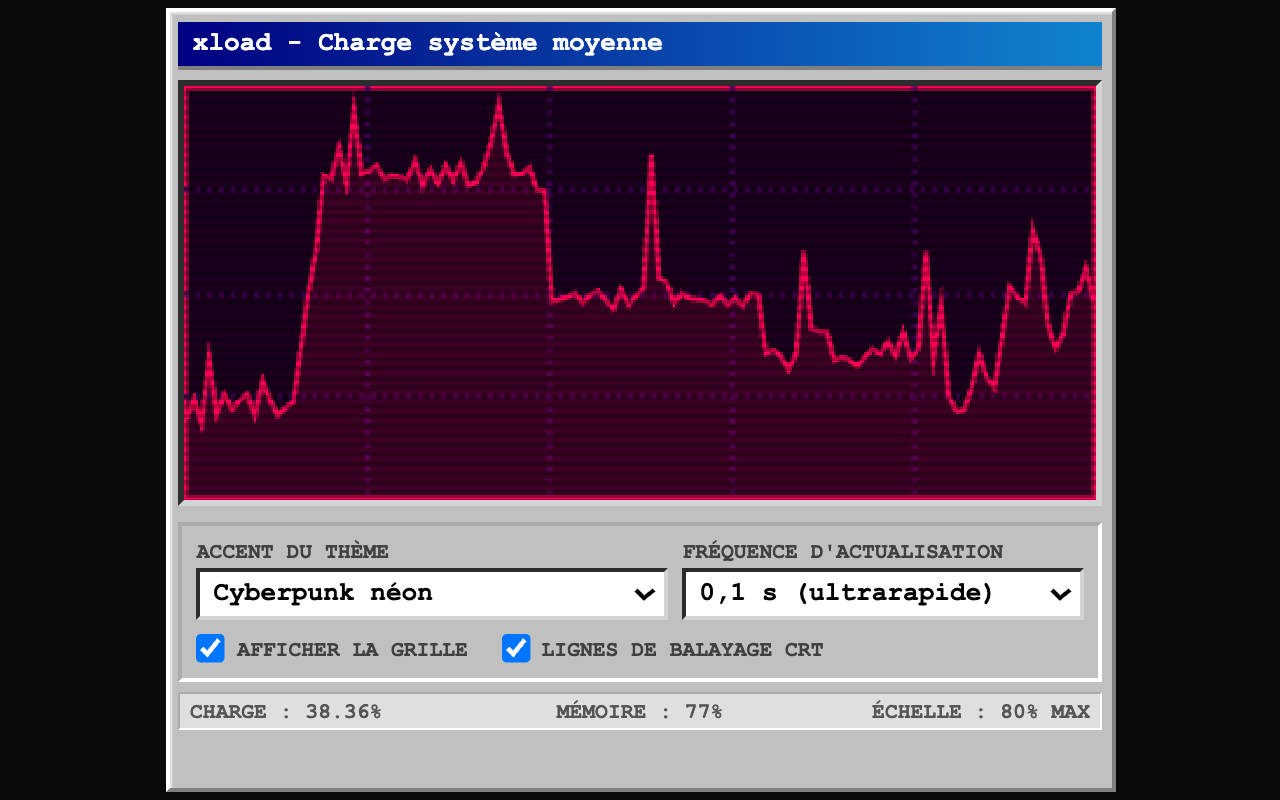
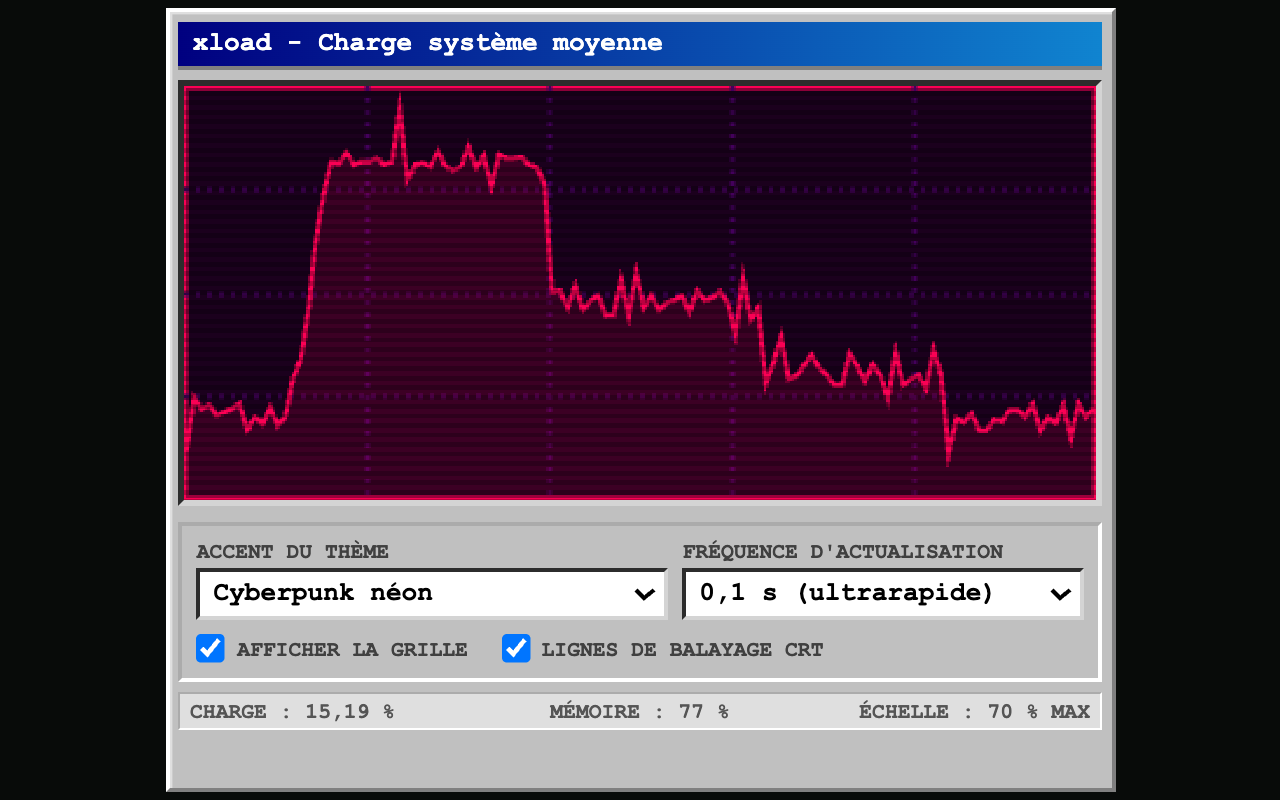
Format the status readouts for the catalog and show both screenshot sets.

diff --git a/store/gallery.html b/store/gallery.html
@@ -13,17 +13,21 @@
   figure { margin: 0; }
   figcaption { margin-bottom: 8px; color: #b9bcc4; }
   figcaption b { color: #ff4d4d; font-weight: bold; }
+  h2 { margin: 6px 0 0; padding-top: 16px; border-top: 1px solid #2c2e35; font-size: 12px;
+       letter-spacing: .14em; text-transform: uppercase; color: #ff4d4d; }
   img { display: block; width: 100%; max-width: 1280px; height: auto; border: 0; }
 </style>
 </head>
 <body>
 <header>
   <h1>xload — store screenshots</h1>
-  <p>1280×800, captured from the unpacked extension with real CPU samples. The popup is height-filled
-     (74% × 98% of the frame) so <code>LOAD</code> and <code>SCALE</code> survive thumbnail downscaling.
-     Click a caption to open full size.</p>
+  <p>1280×800, captured from the unpacked extension with real CPU samples. Both language sets on one
+     page: English uploaded as the base language, French under <strong>Français</strong>. The popup is
+     height-filled (74% × 98% of the frame) so <code>LOAD</code> and <code>SCALE</code> survive
+     thumbnail downscaling. Click a caption to open full size.</p>
 </header>
 <main>
+  <h2>English (United States) — the base language</h2>
   <figure>
     <figcaption><b>01</b> hero — Classic X11 at 1.0s, full 120-point history</figcaption>
     <a href="01-hero-classic-x11.png"><img src="01-hero-classic-x11.png" alt="Classic X11 theme, 1.0s refresh"></a>
@@ -52,6 +56,30 @@
     <figcaption><b>marquee</b> 1400×560 featured banner — six themes as full-width graph tiles</figcaption>
     <a href="07-marquee-1400x560.png"><img src="07-marquee-1400x560.png" alt="Six themes in a 3x2 grid"></a>
   </figure>
+
+  <h2>Français — the same five frames, French catalog</h2>
+  <figure>
+    <figcaption><b>01</b> accueil — Classique X11 à 1,0 s, historique complet de 120 points</figcaption>
+    <a href="fr/01-hero-classic-x11.png"><img src="fr/01-hero-classic-x11.png" alt="Thème Classique X11, actualisation 1,0 s"></a>
+  </figure>
+  <figure>
+    <figcaption><b>02</b> Vert hacker à 0,1 s sous charge réelle</figcaption>
+    <a href="fr/02-hacker-green-load.png"><img src="fr/02-hacker-green-load.png" alt="Thème Vert hacker sous charge"></a>
+  </figure>
+  <figure>
+    <figcaption><b>03</b> Moniteur ambre à 0,5 s</figcaption>
+    <a href="fr/03-amber-monitor.png"><img src="fr/03-amber-monitor.png" alt="Thème Moniteur ambre, actualisation 0,5 s"></a>
+  </figure>
+  <figure>
+    <figcaption><b>04</b> Cyberpunk néon à 0,1 s, tracé dense</figcaption>
+    <a href="fr/04-dense-0.1s.png"><img src="fr/04-dense-0.1s.png" alt="Thème Cyberpunk néon, actualisation 0,1 s"></a>
+  </figure>
+  <figure>
+    <figcaption><b>05</b> lignes de balayage désactivées, grille conservée</figcaption>
+    <a href="fr/05-scanlines-off.png"><img src="fr/05-scanlines-off.png" alt="Classique X11 sans lignes de balayage"></a>
+  </figure>
+  <p>The promo tile and the marquee carry graph crops and fixed labels rather than popup text, so
+     they have no French version and are shared by both languages.</p>
 </main>
 </body>
 </html>

diff --git a/popup.js b/popup.js
@@ -38,6 +38,17 @@ const scanlineOverlayEl = document.querySelector('.scanlines');
  */
 const t = (key, substitutions) => chrome.i18n.getMessage(key, substitutions) || key;
 
+/**
+ * Numbers follow the catalog, not JavaScript: a French readout is written 21,46 % where the
+ * English one is 21.46%. The separator is itself a message, so a --catalog capture and a real
+ * French Chrome format a value the same way instead of trusting the page's language.
+ */
+const decimalSeparator = t('decimalSeparator');
+const formatNumber = (value, decimals) => {
+  const [whole, fraction] = Number(value).toFixed(decimals).split('.');
+  return fraction ? `${whole}${decimalSeparator}${fraction}` : whole;
+};
+
 function localizeUi() {
   document.documentElement.lang = chrome.i18n.getUILanguage();
 
@@ -76,7 +87,7 @@ document.addEventListener('DOMContentLoaded', () => {
     scanlinesToggle.checked = config.scanlines;
 
     if (history.length > 0) {
-      loadValueEl.textContent = t('loadPercent', [history[history.length - 1].toFixed(2)]);
+      loadValueEl.textContent = t('loadPercent', [formatNumber(history[history.length - 1], 2)]);
     }
 
     updateScanlineOverlay();
@@ -194,7 +205,7 @@ function queryCpuInfo() {
       if (history.length > maxDataPoints) history.shift();
       historyDirty = true;
 
-      loadValueEl.textContent = t('loadPercent', [loadPercent.toFixed(2)]);
+      loadValueEl.textContent = t('loadPercent', [formatNumber(loadPercent, 2)]);
       persistHistory();
       drawGraph();
     }
@@ -219,7 +230,7 @@ function queryMemoryInfo() {
     if (!memoryInfo || !memoryInfo.capacity) return;
     const usedPercent = ((memoryInfo.capacity - memoryInfo.availableCapacity) / memoryInfo.capacity) * 100;
     const clamped = Math.max(0, Math.min(100, usedPercent));
-    memoryValueEl.textContent = t('memoryPercent', [String(Math.round(clamped))]);
+    memoryValueEl.textContent = t('memoryPercent', [formatNumber(Math.round(clamped), 0)]);
   });
 }
 

diff --git a/CHANGELOG.md b/CHANGELOG.md
@@ -9,6 +9,7 @@ The popup now speaks English or French, following Chrome's own language setting.
 - New `_locales/en/messages.json` and `_locales/fr/messages.json`: every label, theme name, refresh-rate option and status-bar readout is a message, each with the description a translator works from.
 - `manifest.json` declares `default_locale: "en"` and carries `__MSG_extName__` and `__MSG_extDescription__` instead of text, so the extension name and the store summary localize with the rest of the UI.
 - `popup.js` resolves every string through `chrome.i18n.getMessage()`, sets `<html lang>` from `chrome.i18n.getUILanguage()`, and fills each `data-i18n` element from the catalog. English stays the fallback for any browser language that is neither English nor French.
+- The status readouts format their numbers with the catalog's own decimal separator, so French reads `CHARGE : 21,46 %` with a comma and a space before the percent sign while English keeps `LOAD: 21.46%`.
 - No new permissions and no network code: the catalogs ship with the extension and are read from disk by Chrome.
 
 ### Packaging and checks
@@ -16,7 +17,7 @@ The popup now speaks English or French, following Chrome's own language setting.
 - Upload package is now `xload-retro-system-monitor-1.3.0.zip`: nine entries, the two catalogs included.
 - `README.md`, `STORE-LISTING.md`, `RELEASING.md` and `AGENTS.md` describe the bilingual popup and count nine entries; the store-listing regions note no longer calls the UI English-only.
 - `scripts/smoke.mjs` derives its expected readouts from the same messages, and `--catalog=fr` renders the French catalog on any platform (`--lang=fr` covers Linux and Windows), so a run exercises the translation instead of assuming English.
-- `scripts/capture-screenshots.mjs` unpacks the package with its `_locales/` subdirectories, which the flat copy could not do, and takes `--catalog=fr` to capture the French screenshot set without changing the browser's language.
+- `scripts/capture-screenshots.mjs` unpacks the package with its `_locales/` subdirectories, which the flat copy could not do, and takes `--catalog=fr` to capture the French screenshot set without changing the browser's language; `store/fr/` holds that set and `store/gallery.html` shows both.
 - `scripts/check-listing.mjs` resolves the manifest's message references and checks that both catalogs define the same keys, that every placeholder is declared, and that no label or option text is still hardcoded in `popup.html`.
 
 ## [1.2.0](https://github.com/jbodkin1/xload_chrome_ext/releases/tag/v1.2.0) — 24 November 2026

diff --git a/STORE-LISTING.md b/STORE-LISTING.md
@@ -65,13 +65,13 @@ validated and the package is installed in a clean profile first, so a broken zip
 manifest typo fails at this point rather than during review.
 
 Upload the zip attached to the [v1.3.0 release](https://github.com/jbodkin1/xload_chrome_ext/releases/tag/v1.3.0)
-or the copy committed at the repository root; they are the same bytes. It is 12,233 bytes with
+or the copy committed at the repository root; they are the same bytes. It is 12,713 bytes with
 this SHA-256: check it before uploading, because an asset built before a manifest change is
 indistinguishable from the right one by name and would submit the older package.
 
 ```bash
 shasum -a 256 xload-retro-system-monitor-1.3.0.zip
-# 9c712914e93fc5174d4ea6e6ef8c13c7692c9bb493e7c965e601afc04fc734b6
+# 167afd3bfde2b160a055bb884a897bc835f88a23ec5f271f6747d5ee4c96ab55
 ```
 
 Upload limit is 2 GB — this package is 12 KB.
@@ -290,7 +290,8 @@ Upload in this order — the first shot is the one the store shows largest. All 
 | 4 | `04-dense-0.1s.png` | Neon Cyberpunk at 0.1s, dense trace |
 | 5 | `05-scanlines-off.png` | scanlines off with the grid still on |
 
-`store/gallery.html` shows all five at once for review. Three notes on how they were made,
+`store/gallery.html` shows both sets — the English five and the French five — on one page.
+Three notes on how they were made,
 so a future re-capture matches:
 
 - Shot 3 is one theme, not a menu. A native `<select>` dropdown is drawn by the browser UI
@@ -528,8 +529,8 @@ permissions and single purpose — are in [REJECTION-PLAYBOOK.md](REJECTION-PLAY
 **Upload**
 
 - [x] Manifest `description` matches the summary above, and `version` is 1.3.0.
-- [x] Upload package built: `xload-retro-system-monitor-1.3.0.zip`, 12,233 bytes, sha256
[1 lines of base64/hex data omitted]
+- [x] Upload package built: `xload-retro-system-monitor-1.3.0.zip`, 12,713 bytes, sha256
[1 lines of base64/hex data omitted]
 - [x] Zip holds only the extension files — nine entries, `manifest.json` at the root, no
       `README.md`, `SECURITY.md`, `PRIVACY.md`, `.git` or screenshots.
 - [ ] Package uploaded via **Add new item**.

diff --git a/README.md b/README.md
@@ -24,7 +24,7 @@ Below the graph the status bar carries three readouts: `LOAD:` for the newest CP
 - **Adjustable refresh rate** — from 0.1s (ultrafast) up to 5.0s, so you can trade CPU cost against smoothness. It defaults to 1.0s.
 - **Toggleable grid and scanlines** — grid alignment lines for reading values off the graph, and CRT scanlines if you want the full nostalgic experience (or no scanlines if you don't).
 - **Remembers your settings** — theme, refresh rate, and toggles persist via `chrome.storage.local`, along with the graph history, so it picks up where it left off.
-- **English and French interface** — every label and readout is a message from `_locales/` resolved through `chrome.i18n`, so the popup follows Chrome's own language setting. English is the fallback for any other language.
+- **English and French interface** — every label and readout is a message from `_locales/` resolved through `chrome.i18n`, so the popup follows Chrome's own language setting. Numbers follow the catalog too: `LOAD: 21.46%` in English, `CHARGE : 21,46 %` in French. English is the fallback for any other language.
 
 ### What it does not do
 
